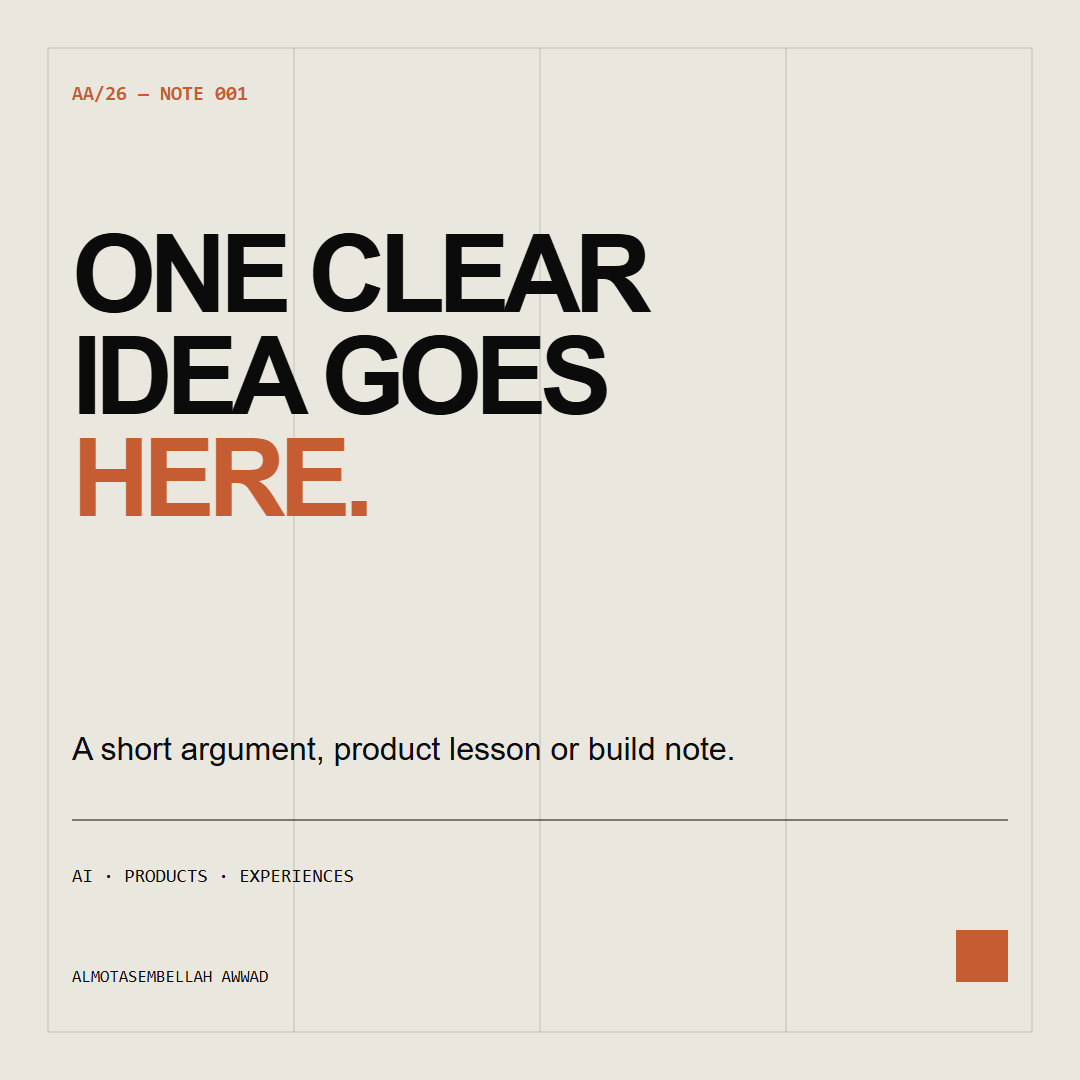
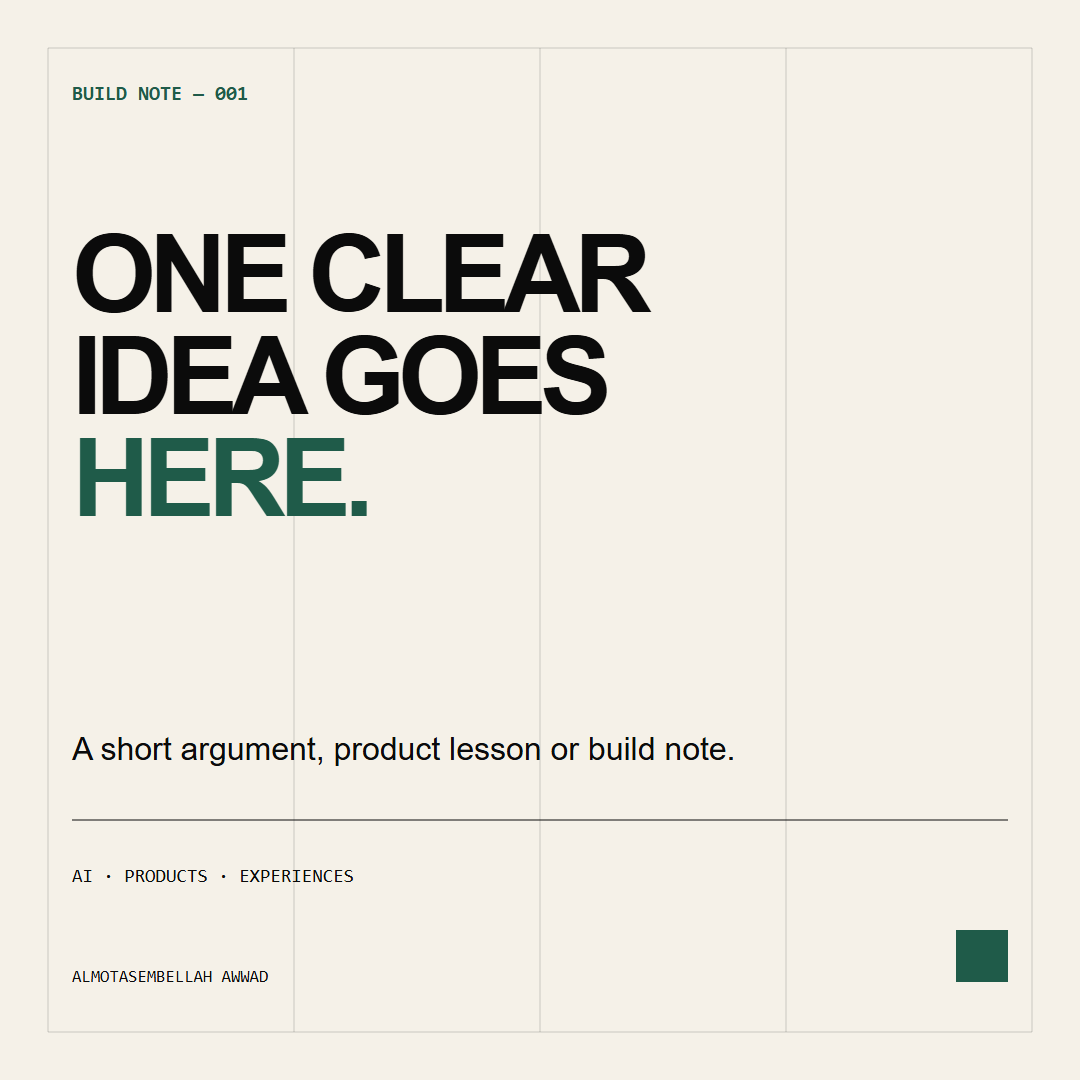
feat: adopt Human Technologist identity

Changed region(s): [[0.0611, 0.3972, 0.3361, 0.4889], [0.0611, 0.0611, 0.2139, 0.0917], [0.8861, 0.8556, 0.9472, 0.9167]]

diff --git a/index.html b/index.html
@@ -12,17 +12,17 @@
   <link rel="alternate" hreflang="en" href="https://almotasembellahawwad.vercel.app/?lang=en">
   <link rel="alternate" hreflang="x-default" href="https://almotasembellahawwad.vercel.app/">
   <meta property="og:title" content="Almotasembellah Awwad — AI Engineer & Digital Product Builder">
-  <meta property="og:description" content="Independent Digital Studio — AI, products and experiences. Egypt / Worldwide.">
+  <meta property="og:description" content="AI Engineer and Digital Product Builder creating useful intelligent products from Egypt to the world.">
   <meta property="og:type" content="website">
   <meta property="og:url" content="https://almotasembellahawwad.vercel.app/">
   <meta property="og:site_name" content="Almotasembellah Awwad">
   <meta property="og:locale" content="ar_EG">
   <meta property="og:locale:alternate" content="en_US">
   <meta property="og:image" content="https://almotasembellahawwad.vercel.app/brand/wordmark.png">
-  <meta property="og:image:alt" content="Almotasembellah Awwad — Independent Digital Studio">
+  <meta property="og:image:alt" content="Almotasembellah Awwad — AI Engineer and Digital Product Builder">
   <meta name="twitter:card" content="summary_large_image">
   <meta name="twitter:title" content="Almotasembellah Awwad — AI Engineer & Digital Product Builder">
-  <meta name="twitter:description" content="Independent Digital Studio — AI, products and experiences. Egypt / Worldwide.">
+  <meta name="twitter:description" content="AI Engineer and Digital Product Builder creating useful intelligent products from Egypt to the world.">
   <meta name="twitter:image" content="https://almotasembellahawwad.vercel.app/brand/wordmark.png">
   <title>Almotasembellah Awwad — AI Engineer & Digital Product Builder</title>
   <link rel="icon" href="assets/favicon.svg" type="image/svg+xml">
@@ -37,13 +37,13 @@
       "@type": "Person",
       "@id": "https://almotasembellahawwad.vercel.app/#person",
       "name": "Almotasembellah Awwad",
-      "alternateName": ["المعتصم بالله عوّاد", "Almotasembellahawwad", "AA/26"],
+      "alternateName": ["المعتصم بالله عوّاد", "Almotasembellahawwad"],
       "identifier": "Almotasembellahawwad",
       "description": "AI Engineer and Digital Product Builder creating applied AI products, product systems and editorial digital experiences.",
       "jobTitle": "AI Engineer & Digital Product Builder",
       "email": "mailto:Almotasembellahawwad@gmail.com",
       "url": "https://almotasembellahawwad.vercel.app/",
-      "image": "https://almotasembellahawwad.vercel.app/brand/aa26-mark.png",
+      "image": "https://almotasembellahawwad.vercel.app/brand/wordmark.png",
       "knowsAbout": ["Applied Artificial Intelligence", "Product Engineering", "Voice AI", "Digital Product Design", "Editorial Web Design"],
       "sameAs": [
         "https://github.com/Almotasembellahawwad",
@@ -61,11 +61,10 @@
 
   <header class="topbar" aria-label="التنقل الرئيسي">
     <a class="identity" href="#top" aria-label="Almotasembellah Awwad — home">
-      <span class="identity-mark">AA/26</span>
       <span class="identity-name">ALMOTASEMBELLAH AWWAD</span>
     </a>
     <div class="topbar-meta">
-      <span data-ar="استوديو رقمي مستقل" data-en="Independent Digital Studio">استوديو رقمي مستقل</span>
+      <span data-ar="مهندس ذكاء اصطناعي وصانع منتجات رقمية" data-en="AI Engineer & Digital Product Builder">مهندس ذكاء اصطناعي وصانع منتجات رقمية</span>
       <span class="availability"><i></i><b data-ar="متاح لمشاريع مختارة" data-en="Available for selected work">متاح لمشاريع مختارة</b></span>
     </div>
     <div class="topbar-actions">
@@ -76,7 +75,7 @@
 
   <nav class="index-menu" id="index-menu" aria-hidden="true">
     <div class="menu-meta mono">
-      <span>AA — DIGITAL STUDIO</span>
+      <span>ALMOTASEMBELLAH AWWAD</span>
       <span>CAIRO / 30.0444° N</span>
     </div>
     <ol>
@@ -94,13 +93,14 @@
     <section class="hero dark" id="top" aria-labelledby="hero-title">
       <div class="hero-grid" aria-hidden="true"></div>
       <div class="hero-kicker mono reveal">
-        <span>INDEPENDENT DIGITAL STUDIO</span>
-        <span>AI · PRODUCTS · EXPERIENCES</span>
+        <span>AI ENGINEER &amp; DIGITAL PRODUCT BUILDER</span>
+        <span>THINK · BUILD · SHIP</span>
         <span>EGYPT / WORLDWIDE</span>
       </div>
       <h1 class="wordmark" id="hero-title" aria-label="Almotasembellah Awwad">
         <span class="line-one">ALMOTASEMBELLAH</span>
-        <span class="line-two">AWWAD<i>AA/26</i></span>
+        <span class="line-two">AWWAD<i>CAIRO / WORLDWIDE</i></span>
+        <span class="hero-role" data-ar="أحوّل تقنيات الذكاء الاصطناعي المعقدة إلى منتجات رقمية مفيدة ومميزة." data-en="I turn complex AI into useful, distinctive digital products.">أحوّل تقنيات الذكاء الاصطناعي المعقدة إلى منتجات رقمية مفيدة ومميزة.</span>
       </h1>
       <div class="hero-bottom reveal">
         <p data-ar="أصنع منتجات رقمية لها سببٌ في الوجود." data-en="I build digital products worth using.">أصنع منتجات رقمية<br>لها سببٌ في الوجود.</p>
@@ -149,7 +149,7 @@
 
       <article class="project project-featured project-verve cursor-view">
         <a class="project-visual image-visual" href="https://github.com/Almotasembellahawwad/Verve" target="_blank" rel="noreferrer" aria-label="فتح مستودع مشروع VERVE">
-          <img src="assets/verve-development.png" alt="تصور تحريري لمراحل نظام VERVE لاكتشاف الأنماط العامة في الواجهات وتحسينها، المشروع قيد التطوير" loading="lazy">
+          <img src="assets/verve-product.png" alt="واجهة VERVE الفعلية لنظام ذكاء التصميم، المشروع قيد التطوير" loading="lazy">
           <span class="project-stamp project-stamp-progress mono" data-ar="قيد التطوير / مشروع 002" data-en="IN DEVELOPMENT / CASE 002">قيد التطوير / مشروع 002</span>
         </a>
         <div class="project-copy">
@@ -217,7 +217,7 @@
     </section>
 
     <section class="lab dark" id="lab">
-      <div class="section-rail mono"><span>04</span><span>AA / LAB</span></div>
+      <div class="section-rail mono"><span>04</span><span>PROJECT ARCHIVE / المختبر</span></div>
       <header class="lab-head">
         <h2>AA/<br>LAB</h2>
         <p data-ar="أشياء أبنيها لأنني أردت معرفة إن كان يمكن بناؤها." data-en="Things I build because I wanted to know if they could exist.">أشياء أبنيها لأنني أردت<br>معرفة إن كان يمكن بناؤها.</p>
@@ -276,9 +276,9 @@
         <a class="contact-cta cursor-view" href="mailto:Almotasembellahawwad@gmail.com?subject=Project%20inquiry"><span data-ar="ناقش مشروعك معي" data-en="Start a project">ناقش مشروعك معي</span><i>↗</i></a>
       </div>
       <footer>
-        <div class="footer-name"><strong>ALMOTASEMBELLAH<br>AWWAD</strong><span>AA/26</span></div>
+        <div class="footer-name"><strong>ALMOTASEMBELLAH<br>AWWAD</strong><span>CAIRO</span></div>
         <div class="footer-meta mono">
-          <span>INDEPENDENT DIGITAL STUDIO</span><span>EGYPT — WORKING WORLDWIDE</span>
+          <span>AI ENGINEER &amp; DIGITAL PRODUCT BUILDER</span><span>EGYPT — WORKING WORLDWIDE</span>
           <div class="social-links"><a href="mailto:Almotasembellahawwad@gmail.com">EMAIL ↗</a><a href="https://github.com/Almotasembellahawwad" target="_blank" rel="noreferrer">GITHUB ↗</a><a href="https://www.linkedin.com/in/almotasembellahawwad/" target="_blank" rel="noreferrer">LINKEDIN ↗</a><a href="https://www.instagram.com/almotasembellahawwad/" target="_blank" rel="noreferrer">INSTAGRAM ↗</a></div>
         </div>
         <button class="back-top" type="button"><span data-ar="أعلى الصفحة" data-en="Back to top">أعلى الصفحة</span><i>↑</i></button>

diff --git a/styles.css b/styles.css
@@ -1,14 +1,14 @@
 @import url('https://fonts.googleapis.com/css2?family=IBM+Plex+Mono:wght@400;500&family=Noto+Sans+Arabic:wght@300;400;500;600;700;800&family=Space+Grotesk:wght@400;500;600;700&display=swap');
 
 :root {
-  --carbon: #0b0b0b;
-  --bone: #eae7df;
-  --paper: #f2f0ea;
-  --graphite: #1a1a1a;
-  --signal: #c65d32;
-  --ink: #11110f;
-  --line: rgba(17, 17, 15, .22);
-  --light-line: rgba(234, 231, 223, .2);
+  --carbon: #151714;
+  --bone: #f5f1e8;
+  --paper: #faf8f2;
+  --graphite: #26302b;
+  --signal: #1f5b49;
+  --ink: #171a17;
+  --line: rgba(23, 26, 23, .2);
+  --light-line: rgba(245, 241, 232, .22);
   --pad: clamp(20px, 3vw, 56px);
   --topbar: 78px;
   --sans: "Space Grotesk", Arial, sans-serif;
@@ -36,11 +36,11 @@ main > section { scroll-margin-top: var(--topbar); }
 
 .topbar { position: fixed; z-index: 90; inset: 0 0 auto; height: var(--topbar); padding: 0 var(--pad); display: grid; grid-template-columns: 1.3fr 1fr auto; align-items: center; border-bottom: 1px solid var(--light-line); background: color-mix(in srgb, var(--carbon) 86%, transparent); backdrop-filter: blur(12px); transition: color .3s, background .3s, border .3s; direction: ltr; }
 .topbar.on-paper { color: var(--ink); background: color-mix(in srgb, var(--paper) 88%, transparent); border-color: var(--line); }
-.identity { display: flex; gap: 18px; align-items: center; font-family: var(--sans); font-size: 12px; font-weight: 600; letter-spacing: -.02em; }
+.identity { display: flex; gap: 18px; align-items: center; font-family: var(--sans); font-size: 12px; font-weight: 600; letter-spacing: .01em; }
 .identity-mark { color: var(--signal); font-family: var(--mono); }
 .topbar-meta { display: flex; justify-content: space-between; gap: 20px; padding-inline: 18px 28px; font-size: 11px; }
 .availability { display: flex; align-items: center; gap: 7px; }
-.availability i { width: 7px; height: 7px; background: var(--signal); border-radius: 50%; box-shadow: 0 0 0 4px rgba(198,93,50,.12); }
+.availability i { width: 7px; height: 7px; background: var(--signal); border-radius: 50%; box-shadow: 0 0 0 4px rgba(31,91,73,.13); }
 .availability b { font-weight: 400; }
 .topbar-actions { display: flex; gap: 10px; align-items: center; font-family: var(--mono); font-size: 11px; }
 .lang-switch, .menu-toggle { background: none; border: 0; cursor: pointer; padding: 12px; }
@@ -69,11 +69,13 @@ main > section { scroll-margin-top: var(--topbar); }
 .hero-kicker { position: relative; display: grid; grid-template-columns: 1fr 1fr 1fr; font-size: clamp(8px, .75vw, 11px); direction: ltr; }
 .hero-kicker span:nth-child(2) { text-align: center; }
 .hero-kicker span:last-child { text-align: right; }
-.wordmark { position: relative; direction: ltr; align-self: center; min-width: 0; width: 100%; margin: 0; font-family: var(--sans); font-weight: 600; letter-spacing: -.075em; line-height: .72; text-transform: uppercase; transform: translateX(-.5vw); }
+.wordmark { position: relative; direction: ltr; align-self: center; min-width: 0; width: 100%; margin: 0; font-family: var(--sans); font-weight: 600; letter-spacing: -.065em; line-height: .82; text-transform: uppercase; transform: translateX(-.25vw); }
 .wordmark > span { display: block; white-space: nowrap; }
-.line-one { font-size: clamp(40px, 8.35vw, 156px); animation: enter-word 1.15s .1s both cubic-bezier(.16,1,.3,1); }
-.line-two { position: relative; font-size: clamp(105px, 20.5vw, 382px); color: var(--bone); animation: enter-word 1.15s .2s both cubic-bezier(.16,1,.3,1); }
+.line-one { font-size: clamp(40px, 7.8vw, 144px); animation: enter-word 1.15s .1s both cubic-bezier(.16,1,.3,1); }
+.line-two { position: relative; font-size: clamp(92px, 15.8vw, 294px); color: var(--bone); animation: enter-word 1.15s .2s both cubic-bezier(.16,1,.3,1); }
 .line-two i { position: absolute; inset: 6% 1.5% auto auto; font: 10px var(--mono); font-style: normal; letter-spacing: 0; color: var(--signal); }
+.hero-role { max-width: 620px; margin-top: 32px; font-family: var(--arabic); font-size: clamp(18px, 2vw, 31px); font-weight: 400; line-height: 1.55; letter-spacing: 0; text-transform: none; direction: rtl; color: rgba(245,241,232,.78); }
+.lang-en .hero-role { font-family: var(--sans); direction: ltr; max-width: 690px; }
 @keyframes enter-word { from { opacity: 0; transform: translateY(70px); filter: blur(8px); } }
 .hero-bottom { position: relative; display: grid; grid-template-columns: 1fr 1fr 1fr; align-items: end; }
 .hero-bottom p { margin: 0; font-size: clamp(19px, 2.1vw, 34px); line-height: 1.35; font-weight: 500; }
@@ -134,7 +136,7 @@ main > section { scroll-margin-top: var(--topbar); }
 
 :focus-visible { outline: 2px solid var(--signal); outline-offset: 5px; }
 .generative-visual { display: grid; place-items: center; background: #d8d5cd; border: 1px solid var(--line); }
-.orb { width: 42%; aspect-ratio: 1; border-radius: 50%; background: radial-gradient(circle at 32% 28%, #f2f0ea 0 4%, #8f8c85 20%, #171715 58%, #c65d32 60%, #111 72%); filter: blur(.2px); box-shadow: 34px 30px 60px rgba(0,0,0,.22); animation: float 5s ease-in-out infinite; }
+.orb { width: 42%; aspect-ratio: 1; border-radius: 50%; background: radial-gradient(circle at 32% 28%, #f5f1e8 0 4%, #9a9d96 20%, #26302b 58%, #1f5b49 60%, #151714 72%); filter: blur(.2px); box-shadow: 34px 30px 60px rgba(0,0,0,.18); animation: float 5s ease-in-out infinite; }
 @keyframes float { 50% { transform: translateY(-10px) rotate(5deg); } }
 .wave-lines { position: absolute; inset: 16%; border: 1px solid rgba(11,11,11,.35); border-radius: 50%; box-shadow: 0 0 0 16px rgba(11,11,11,.05), 0 0 0 48px rgba(11,11,11,.04), 0 0 0 88px rgba(11,11,11,.03); }
 .generative-visual > span { position: absolute; inset: 14px auto auto 14px; font: 8px var(--mono); color: var(--ink); }
@@ -240,7 +242,7 @@ main > section { scroll-margin-top: var(--topbar); }
   .hero-kicker span:nth-child(2) { display: none; }
   .wordmark { line-height: .82; }
   .line-one { font-size: 8.1vw; letter-spacing: -.065em; }
-  .line-two { font-size: 28vw; }
+  .line-two { font-size: 22vw; }
   .hero-bottom { grid-template-columns: 1fr auto; }
   .scroll-cue { display: none; }
   .statement-notes { margin-inline-start: 0; }
@@ -267,8 +269,9 @@ main > section { scroll-margin-top: var(--topbar); }
   .hero > * { min-width: 0; }
   .wordmark { transform: none; margin: 0; overflow: visible; align-self: center; max-width: 100%; }
   .line-one { font-size: 7.5vw; letter-spacing: -.07em; }
-  .line-two { font-size: 23.5vw; letter-spacing: -.075em; }
+  .line-two { font-size: 21vw; letter-spacing: -.07em; }
   .line-two i { inset-block-start: -14px; inset-inline-end: 0; }
+  .hero-role { margin-top: 24px; max-width: 25ch; font-size: 16px; line-height: 1.6; }
   .hero-bottom { grid-template-columns: minmax(0, 1fr) auto; gap: 18px; width: 100%; }
   .hero-bottom p { max-width: 22ch; font-size: 15px; line-height: 1.5; overflow-wrap: anywhere; }
   .hero-index { flex-direction: column; gap: 3px; text-align: right; white-space: nowrap; }
@@ -319,7 +322,7 @@ main > section { scroll-margin-top: var(--topbar); }
 @media (max-width: 390px) {
   .hero { min-height: max(620px, 100svh); }
   .line-one { font-size: 7.25vw; }
-  .line-two { font-size: 22.5vw; }
+  .line-two { font-size: 20.5vw; }
   .hero-bottom p { font-size: 14px; max-width: 19ch; }
   .footer-name strong { font-size: clamp(25px, 7.7vw, 34px); }
   .contact-copy h2 { font-size: 15.5vw; }

diff --git a/brand/EMAIL-SIGNATURE.html b/brand/EMAIL-SIGNATURE.html
@@ -1,6 +1,6 @@
 <!doctype html>
 <html lang="en"><head><meta charset="utf-8"><title>Almotasembellah Awwad — Email Signature</title></head>
 <body><table role="presentation" cellpadding="0" cellspacing="0" style="font-family:Arial,Helvetica,sans-serif;color:#0b0b0b;border-collapse:collapse">
-  <tr><td style="padding-right:18px;border-right:3px solid #c65d32;font-size:22px;font-weight:700;vertical-align:top">AA<span style="color:#c65d32">/26</span></td>
-  <td style="padding-left:18px"><strong style="font-size:16px">Almotasembellah Awwad</strong><br><span style="font-size:13px;color:#555">AI Engineer &amp; Digital Product Builder</span><br><span style="font-size:12px;line-height:2"><a href="https://almotasembellahawwad.vercel.app/" style="color:#0b0b0b">Portfolio</a> · <a href="https://github.com/Almotasembellahawwad" style="color:#0b0b0b">GitHub</a> · <a href="https://www.linkedin.com/in/almotasembellahawwad/" style="color:#0b0b0b">LinkedIn</a></span></td></tr>
+  <tr><td style="width:5px;background:#1f5b49"></td>
+  <td style="padding-left:18px"><strong style="font-size:16px">Almotasembellah Awwad</strong><br><span style="font-size:13px;color:#59615c">AI Engineer &amp; Digital Product Builder</span><br><span style="font-size:12px;line-height:2"><a href="https://almotasembellahawwad.vercel.app/" style="color:#171a17">Portfolio</a> · <a href="https://github.com/Almotasembellahawwad" style="color:#171a17">GitHub</a> · <a href="https://www.linkedin.com/in/almotasembellahawwad/" style="color:#171a17">LinkedIn</a></span></td></tr>
 </table></body></html>

diff --git a/brand/BRAND-GUIDELINES.md b/brand/BRAND-GUIDELINES.md
@@ -1,4 +1,4 @@
-# ALMOTASEMBELLAH AWWAD — Brand Kit v1
+# ALMOTASEMBELLAH AWWAD — Human Technologist Identity
 
 ## Position
 
@@ -16,8 +16,7 @@ Arab-first startups, founders and product teams; international technology teams 
 
 - Primary name: **Almotasembellah Awwad**
 - Arabic identity: **المعتصم بالله عوّاد**
-- Descriptor: **Independent Digital Studio**
-- Monogram: **AA/26**
+- Descriptor: **AI Engineer & Digital Product Builder**
 - GitHub: **Almotasembellahawwad**
 
 ## Pillars
@@ -30,16 +29,16 @@ Arab-first startups, founders and product teams; international technology teams 
 
 | Token | Value | Use |
 |---|---|---|
-| Carbon | `#0B0B0B` | Primary background and text |
-| Bone | `#EAE7DF` | Primary light surface and text |
-| Signal | `#C65D32` | One controlled accent |
-| Graphite | `#8E8B83` | Secondary information |
+| Ink | `#171A17` | Primary text and dark surfaces |
+| Warm White | `#F5F1E8` | Primary human, warm surface |
+| Deep Green | `#1F5B49` | Controlled signal and links |
+| Graphite | `#59615C` | Secondary information |
 
 - Display type: condensed or neo-grotesk sans serif, bold and oversized.
 - Body type: neutral sans serif with generous leading.
 - Metadata: monospace, uppercase, small and precise.
 - Grid: visible editorial columns, asymmetric but aligned.
-- Imagery: real product interfaces, system diagrams and deliberate monochrome photography.
+- Imagery: a real, natural portrait and real product interfaces. System diagrams support the story but never replace proof.
 
 ## Voice
 
@@ -53,7 +52,7 @@ Arab-first startups, founders and product teams; international technology teams 
 - Blue-purple AI gradients, glassmorphism and generic SaaS cards.
 - Excess badges, animated typing effects and vanity counters.
 - Calling unfinished prototypes complete products.
-- Using `®` unless the mark is officially registered.
+- Studio language, invented monograms or registration symbols.
 
 ## Content rhythm
 

diff --git a/brand/PORTRAIT-BRIEF.md b/brand/PORTRAIT-BRIEF.md
@@ -1,0 +1,11 @@
+# Portrait direction
+
+- Natural waist-up or close portrait; direct eye contact.
+- Warm off-white or real workspace background, never a synthetic AI backdrop.
+- Soft window light from one side; realistic skin and restrained contrast.
+- Plain charcoal, cream or deep-green clothing without logos.
+- Calm, confident expression rather than a corporate pose.
+- Deliver one vertical crop and one square crop at 2000 px or larger.
+- Keep negative space on one side for editorial layouts.
+
+Do not generate a synthetic portrait. The personal brand should be anchored by a real photograph of Almotasembellah.

diff --git a/README.md b/README.md
@@ -14,7 +14,7 @@ Official portfolio of **Almotasembellah Awwad**, an AI Engineer and Digital Prod
 
 ## Brand kit
 
-The reusable `AA/26` identity system, official bios, LinkedIn cover, social template and email signature are available in [`brand/`](brand/).
+The Human Technologist identity system, official bios, LinkedIn cover, social template, portrait brief and email signature are available in [`brand/`](brand/).
 
 ## Local preview
 

diff --git a/brand/BIOS.md b/brand/BIOS.md
@@ -24,4 +24,3 @@ AI Engineer & Digital Product Builder | Applied AI · Product Engineering · Edi
 
 AI Engineer & Digital Product Builder
 Building useful AI products from Egypt to the world.
-AA/26
